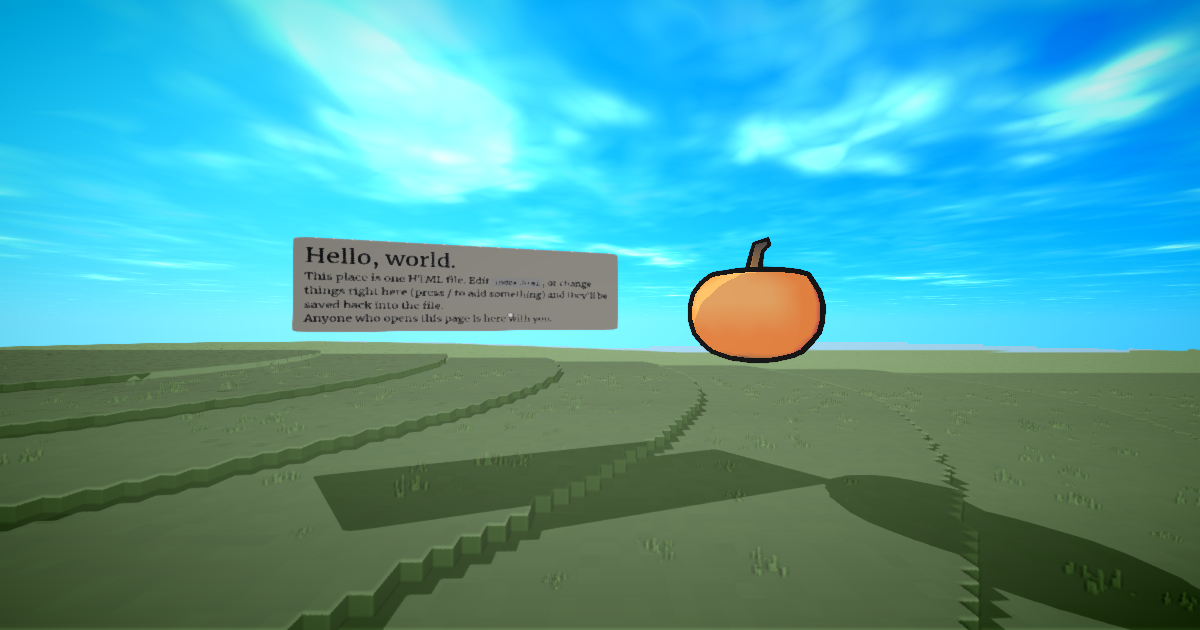
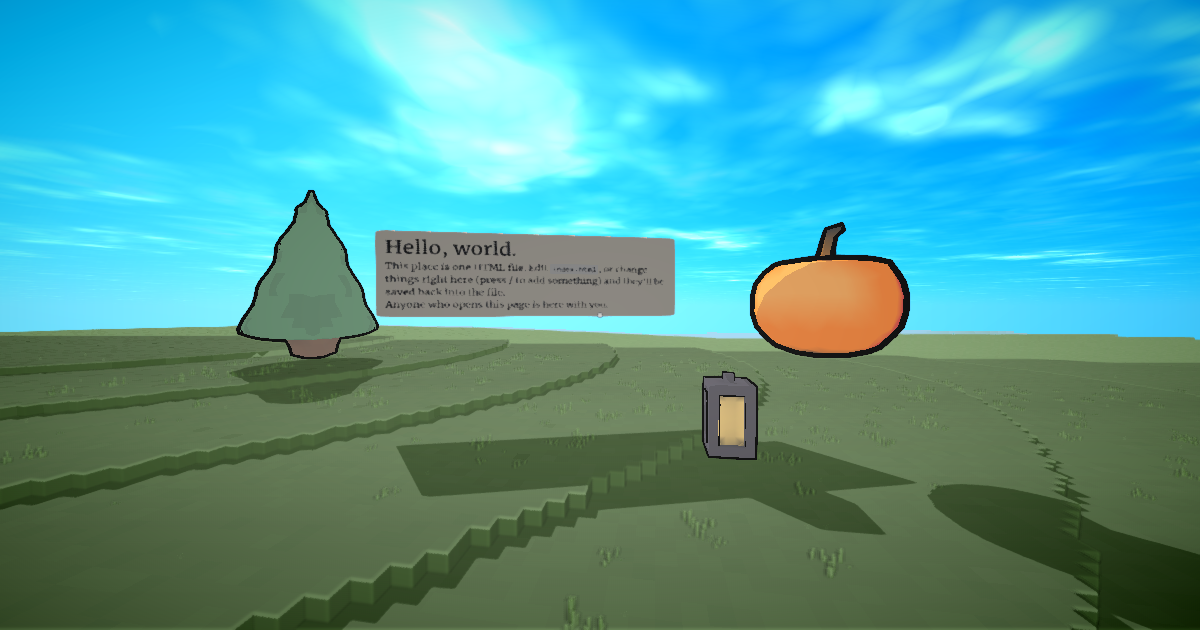
Starter: furnish with kit models (pine, lantern) loaded from webspaces.space/kit
Claude-Session: https://claude.ai/code/session_019u2gxT8nfBZqM93ZJPRw4f

diff --git a/index.html b/index.html
@@ -27,6 +27,10 @@
 <!-- Every element in <body> is an object in the world, placed with a CSS transform (centimeters). -->
 <label id="welcome" style="color: #1f2a44; background-color: #f7f3ea; font-family: serif; transform: translate3d(-160cm, 300cm, -380cm) rotate3d(0, 1, 0, 0.3rad) scale3d(1.3, 1.3, 1.3)"><h1>Hello, world.</h1><p>This place is one HTML file. Edit <code>index.html</code>, or change things right here (press <strong>/</strong> to add something) and they'll be saved back into the file.</p><p>Anyone who opens this page is here with you.</p></label>
 
+<!-- Models can come from anywhere on the web. These are from the free kit: https://webspaces.space/kit/ -->
+<model id="pine" src="https://webspaces.space/kit/models/pine.svox" style="transform: translate3d(-680cm, 320cm, -560cm) scale3d(1.6, 1.6, 1.6)"></model>
+<model id="lantern" src="https://webspaces.space/kit/models/lantern.svox" style="transform: translate3d(60cm, 162cm, -250cm) scale3d(0.6, 0.6, 0.6)"></model>
+
 <model id="apple" src="models/apple.svox" style="transform: translate3d(150cm, 270cm, -300cm) scale3d(1.5, 1.5, 1.5)"></model>
 
 <script type="module">
